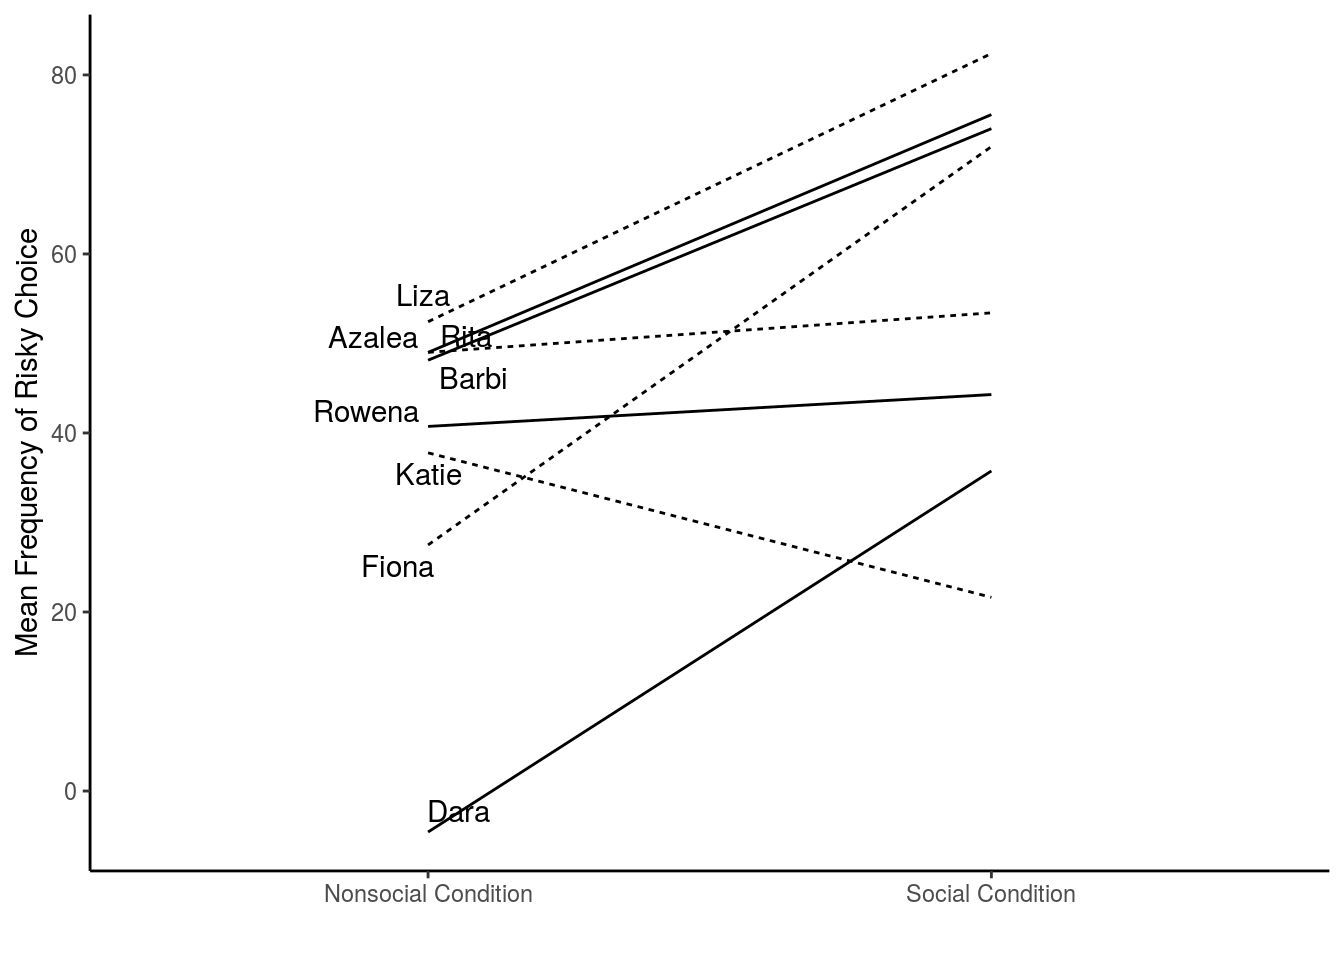
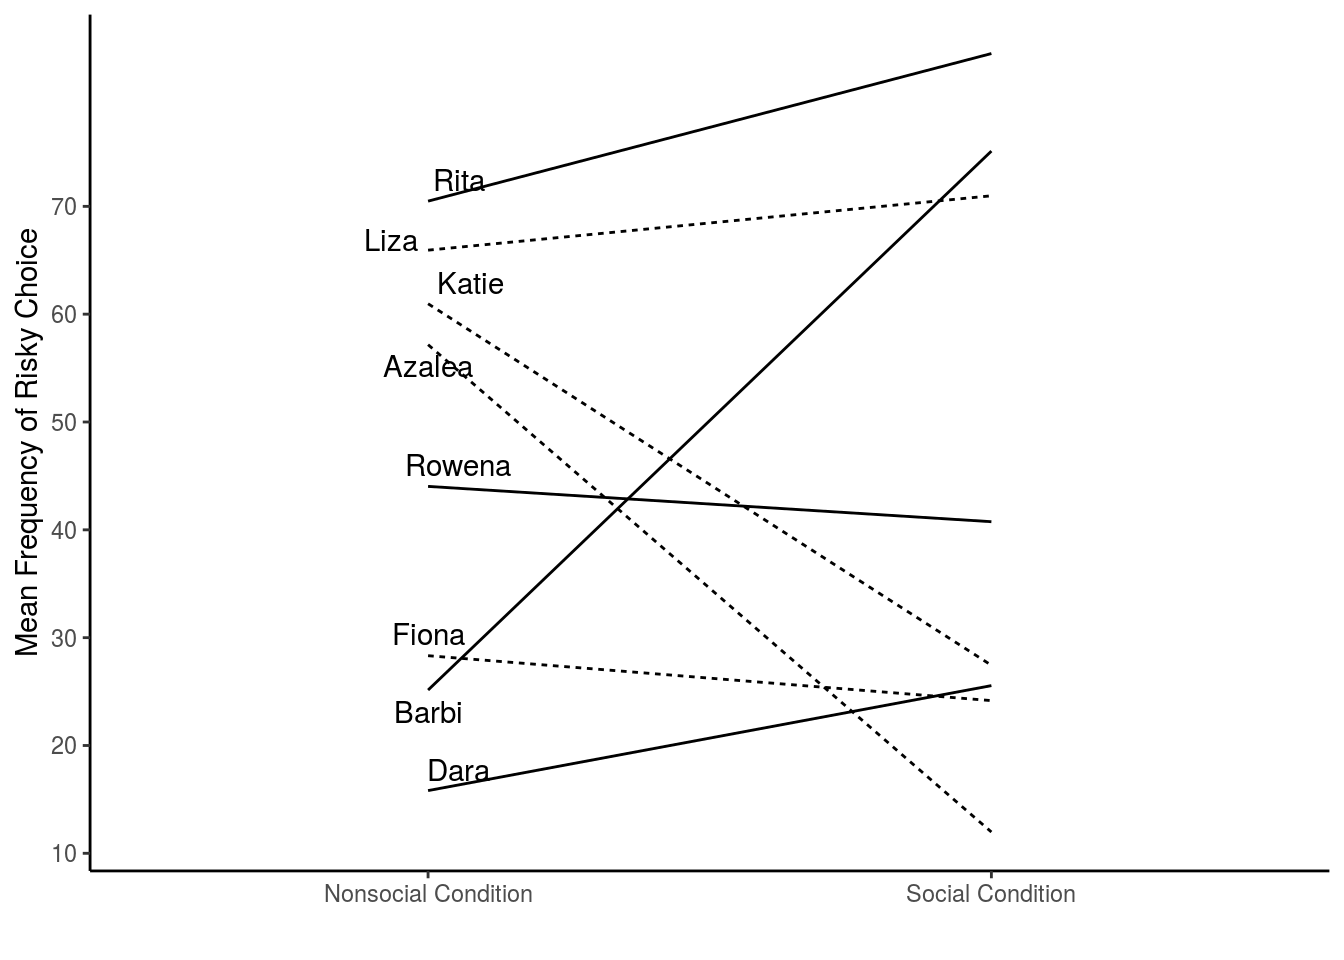
Attempting to rescale first plot---use of runif instead of rnorm in 2nd rendition of first plot.

diff --git a/docs/Plots.html b/docs/Plots.html
@@ -427,14 +427,14 @@ plot_df&lt;-data.frame(names,mean_frequency,adversity,condition)
 
 b&lt;-ggplot(plot_df, aes(condition,mean_frequency,group=names,linetype=adversity))+geom_line()+geom_text_repel(label=lnames, position = &quot;nudge&quot;)+theme_classic()
 
-b+labs(x=&quot;&quot;,y=&quot;Mean Frequency of Risky Choice&quot;)+theme(legend.position = &quot;none&quot;)</code></pre>
+b+labs(x=&quot;&quot;,y=&quot;Mean Frequency of Risky Choice&quot;)+theme(legend.position = &quot;none&quot;)+scale_y_continuous(breaks = pretty(0:70,n=7))</code></pre>
 <p><img src="Plots_files/figure-html/unnamed-chunk-2-1.png" width="672" /></p>
 </div>
 <div id="mean-frequency-of-risky-choices-data-duplicat-of-assignment-attempt" class="section level3">
 <h3>Mean Frequency of Risky Choices (Data Duplicat of Assignment Attempt)</h3>
 <pre class="r"><code>names&lt;-rep(c(&quot;Dara&quot;,&quot;Rita&quot;,&quot;Liza&quot;, &quot;Azalea&quot;, &quot;Barbi&quot;,&quot;Rowena&quot;,&quot;Katie&quot;,&quot;Fiona&quot;), each=2)
 lnames&lt;-c(&quot;&quot;,&quot;Dara&quot;,&quot;&quot;,&quot;Rita&quot;,&quot;&quot;,&quot;Liza&quot;, &quot;&quot;,&quot;Azalea&quot;, &quot;&quot;,&quot;Barbi&quot;,&quot;&quot;,&quot;Rowena&quot;,&quot;&quot;,&quot;Katie&quot;,&quot;&quot;,&quot;Fiona&quot;)
-mean_frequency&lt;-rnorm(16,45,25)
+mean_frequency&lt;-floor(runif(16,0,70))
 condition&lt;-rep(c(&quot;Social Condition&quot;,&quot;Nonsocial Condition&quot;),8)
 adversity&lt;-rep(c(&quot;Adverse&quot;,&quot;Not_Adverse&quot;),times=c(4,4))
 
@@ -444,7 +444,7 @@ plot_df&lt;-data.frame(names,mean_frequency,adversity,condition)
 
 a&lt;-ggplot(plot_df, aes(condition,mean_frequency,group=names,linetype=adversity))+geom_line()+geom_text_repel(label=lnames, position = &quot;nudge&quot;)+theme_classic()
 
-a+labs(x=&quot;&quot;,y=&quot;Mean Frequency of Risky Choice&quot;)+theme(legend.position = &quot;none&quot;)</code></pre>
+a+theme(legend.position = &quot;none&quot;)+labs(x=&quot;&quot;,y=&quot;Mean Frequency of Risky Choice&quot;)+theme(legend.position = &quot;none&quot;)+scale_y_continuous(breaks = pretty(0:70,n=7))</code></pre>
 <p><img src="Plots_files/figure-html/unnamed-chunk-3-1.png" width="672" /></p>
 </div>
 <div id="average-frequency-of-social-risks" class="section level3">
